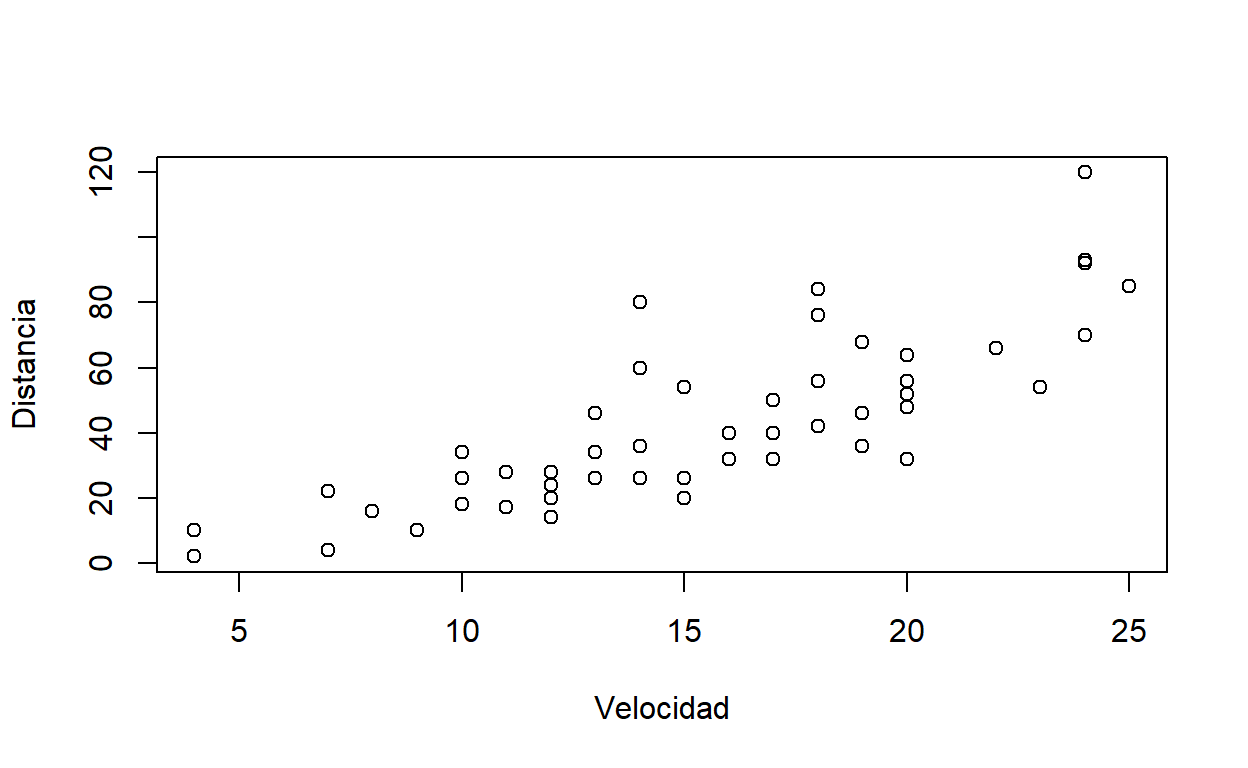
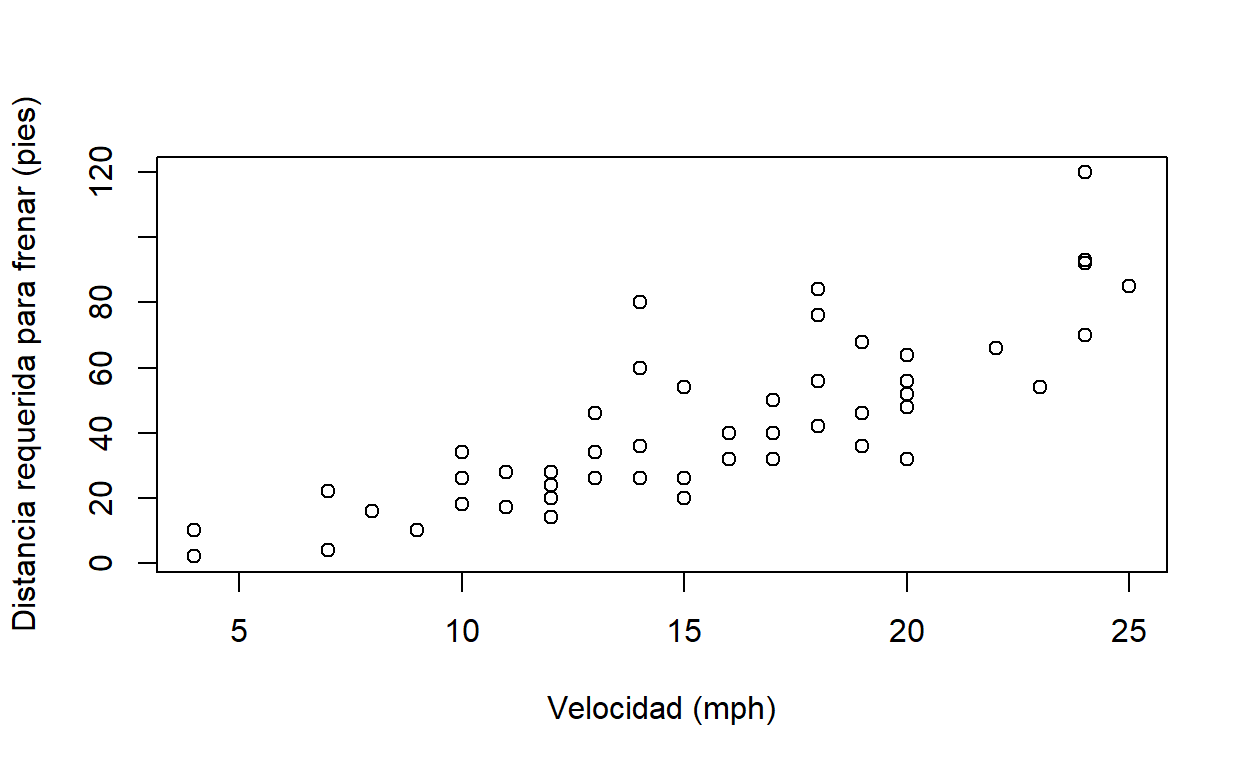
Agregar ejercicios

Changed region(s): [[0.0, 0.125, 0.0312, 0.8438], [0.4375, 0.9062, 0.625, 0.9375]]

diff --git a/docs/01-r-introduccion.html b/docs/01-r-introduccion.html
@@ -2095,7 +2095,7 @@ code span.wa { color: #5e5e5e; font-style: italic; } /* Warning */
 <li><a href="#funciones">Funciones</a>
 <ul>
 <li><a href="#ejemplos">Ejemplos</a></li>
-<li><a href="#parámetros">Parámetros</a></li>
+<li><a href="#argumentos">Argumentos</a></li>
 <li><a href="#ayuda-sobre-funciones">Ayuda sobre funciones</a></li>
 <li><a href="#bibliotecas-y-paquetes">Bibliotecas y paquetes</a></li>
 </ul></li>
@@ -2146,9 +2146,9 @@ Interfaz de RStudio.
 <h1 id="el-lenguaje-r">El lenguaje R</h1>
 <p>En esta sección, se explican algunos de los aspectos principales de la <a href="https://cran.r-project.org/doc/manuals/r-release/R-lang.html">definición del lenguaje R</a>. Específicamente, el concepto de función y los tipos de datos que maneja R.</p>
 <h2 id="funciones">Funciones</h2>
-<p>R, al igual que otros lenguajes de programación, estructura su funcionalidad en unidades de <a href="https://en.wikipedia.org/wiki/Source_code">código fuente</a> llamados <a href="https://cran.r-project.org/doc/manuals/r-release/R-lang.html#Functions">funciones</a>. Cada función realiza una tarea específica como, por ejemplo, un cálculo matemático. Todas las funciones tienen un nombre y un conjunto de parámetros que especifican los datos de entrada que procesa la función. Los parámetros se escriben entre paréntesis redondos (<code>()</code>) y estos siempre deben incluirse, aún en el caso de que la función no tenga ningún parámetro. Si la función tiene varios parámetros, deben separarse mediante comas (<code>,</code>).</p>
+<p>R, al igual que otros lenguajes de programación, estructura su funcionalidad en unidades de <a href="https://en.wikipedia.org/wiki/Source_code">código fuente</a> llamadas <a href="https://cran.r-project.org/doc/manuals/r-release/R-lang.html#Functions">funciones</a>. Cada función realiza una tarea específica como, por ejemplo, un cálculo matemático y, por lo general, retorna un valor como salida. Todas las funciones tienen un nombre y un conjunto de argumentos que especifican los datos de entrada que procesa la función. Los argumentos se escriben entre paréntesis redondos (<code>()</code>) y estos siempre deben incluirse, aún en el caso de que la función no tenga ningún argumento. Si la función tiene varios argumentos, deben separarse mediante comas (<code>,</code>).</p>
 <h3 id="ejemplos">Ejemplos</h3>
-<p>Por ejemplo, la función <a href="https://www.rdocumentation.org/packages/base/versions/3.6.2/topics/print">print()</a> recibe como parámetro un valor (ej. un texto o un número) para imprimirlo en la pantalla. En el siguiente fragmento de código en R, se utiliza <code>print()</code> para imprimir la hilera <a href="https://en.wikipedia.org/wiki/%22Hello,_World!%22_program">“Hola mundo”</a>. Nótese el uso del símbolo <code>#</code> para comentarios (i.e. texto que no es código ejecutable).</p>
+<p>La función <a href="https://www.rdocumentation.org/packages/base/versions/3.6.2/topics/print">print()</a> recibe como argumento un valor (ej. un texto o un número) para imprimirlo en la pantalla. En el siguiente fragmento de código en R, se utiliza <code>print()</code> para imprimir la hilera <a href="https://en.wikipedia.org/wiki/%22Hello,_World!%22_program">“Hola mundo”</a>. Nótese el uso del símbolo <code>#</code> para comentarios (i.e. texto que no es código ejecutable).</p>
 <div class="layout-chunk" data-layout="l-body">
 <div class="sourceCode">
 <pre class="sourceCode r"><code class="sourceCode r"><span class='co'># Impresión de una hilera de carácteres</span>
@@ -2157,7 +2157,7 @@ Interfaz de RStudio.
 </div>
 <pre><code>[1] &quot;Hola mundo&quot;</code></pre>
 </div>
-<p>En otro ejemplo, la función <a href="https://www.rdocumentation.org/packages/base/versions/3.6.2/topics/mean">mean()</a> retorna la media aritmética del parámetro de entrada. En el siguiente ejemplo, se calcula la media de los números de un vector creado a su vez con la función <a href="https://www.rdocumentation.org/packages/base/versions/3.6.2/topics/c">c()</a>.</p>
+<p>En otro ejemplo, la función <a href="https://www.rdocumentation.org/packages/base/versions/3.6.2/topics/mean">mean()</a> retorna la media aritmética del argumento de entrada. En el siguiente ejemplo, se calcula la media de los números de un vector creado a su vez con la función <a href="https://www.rdocumentation.org/packages/base/versions/3.6.2/topics/c">c()</a>.</p>
 <div class="layout-chunk" data-layout="l-body">
 <div class="sourceCode">
 <pre class="sourceCode r"><code class="sourceCode r"><span class='co'># Media aritmética</span>
@@ -2175,8 +2175,8 @@ Interfaz de RStudio.
 </div>
 <pre><code>[1] &quot;C:/Users/mfvargas/curso-r-simocute/curso-r-simocute.github.io&quot;</code></pre>
 </div>
-<p>La función <code>setwd()</code> (<em>set working directory</em>) establece la ruta del directorio de trabajo de la sesión actual de R. Como parámetro, recibe una hilera de texto con la ruta.</p>
-<p><strong>Note las barras utilizadas para separar los subdirectorios: /</strong></p>
+<p>La función <code>setwd()</code> (<em>set working directory</em>) establece la ruta del directorio de trabajo de la sesión actual de R. Como argumento, recibe una hilera de texto con la ruta.</p>
+<p><strong>Note las barras utilizadas para separar los subdirectorios: / (no \)</strong></p>
 <div class="layout-chunk" data-layout="l-body">
 <div class="sourceCode">
 <pre class="sourceCode r"><code class="sourceCode r"><span class='co'># Definición del directorio de trabajo (la ruta debe existir)</span>
@@ -2187,20 +2187,28 @@ Interfaz de RStudio.
 </code></pre>
 </div>
 </div>
-<h3 id="parámetros">Parámetros</h3>
-<p>Los parámetros de las funciones tienen nombres que pueden especificarse, en caso de ser necesario. En el siguiente ejemplo, se utilizan los nombres de los parámetros <code>x</code>, <code>xlab</code> y <code>ylab</code> de la función <a href="https://www.rdocumentation.org/packages/graphics/versions/3.6.2/topics/plot">plot()</a> para especificar la fuente de datos y las etiquetas de los ejes x e y de un gráfico.</p>
+<p><strong> Ejercicio 01:<br />
+a. Obtenga la ruta de su directorio de trabajo con la función <code>getwd()</code>.<br />
+b. Si lo desea, cambie la ruta de su directorio de trabajo con la función <code>setwd()</code>. Verifique el cambio con <code>getwd()</code>.<br />
+</strong></p>
+<h3 id="argumentos">Argumentos</h3>
+<p>Los argumentos de las funciones tienen nombres que pueden especificarse, en caso de ser necesario. En el siguiente ejemplo, se utilizan los nombres de los argumentos <code>x</code>, <code>xlab</code> y <code>ylab</code> de la función <a href="https://www.rdocumentation.org/packages/graphics/versions/3.6.2/topics/plot">plot()</a> para especificar la fuente de datos y las etiquetas de los ejes x e y de un gráfico.</p>
 <div class="layout-chunk" data-layout="l-body">
 <div class="sourceCode">
 <pre class="sourceCode r"><code class="sourceCode r"><span class='co'># Gráfico con etiquetas en los ejes x e y del conjunto de datos "cars"</span>
 <span class='fu'><a href='https://rdrr.io/r/graphics/plot.default.html'>plot</a></span><span class='op'>(</span>
   x<span class='op'>=</span><span class='va'>cars</span>, 
-  xlab<span class='op'>=</span><span class='st'>"Velocidad"</span>, 
-  ylab<span class='op'>=</span><span class='st'>"Distancia"</span>
+  xlab<span class='op'>=</span><span class='st'>"Velocidad (mph)"</span>, 
+  ylab<span class='op'>=</span><span class='st'>"Distancia requerida para frenar (pies)"</span>
 <span class='op'>)</span>
 </code></pre>
 </div>
 <p><img src="01-r-introduccion_files/figure-html5/unnamed-chunk-5-1.png" width="624" /></p>
 </div>
+<p><strong> Ejercicio 02: estudie la documentación de la función <code>plot()</code> y agregue al gráfico anterior:<br />
+a. Un título.<br />
+b. Un subtítulo.<br />
+</strong></p>
 <h3 id="ayuda-sobre-funciones">Ayuda sobre funciones</h3>
 <p>Para obtener ayuda de una función desde la línea de comandos de R, puede utilizarse un signo de pregunta (<code>?</code>) seguido del nombre de la función o bien la función <a href="https://www.rdocumentation.org/packages/utils/versions/3.6.2/topics/help">help()</a>. Por ejemplo:</p>
 <div class="layout-chunk" data-layout="l-body">
@@ -2250,7 +2258,7 @@ mean&gt; c(xm, mean(x, trim = 0.10))
 <p>Algunos paquetes están contenidos en la distribución base de R y otros deben instalarse de manera separada con la función <a href="https://www.rdocumentation.org/packages/utils/versions/3.6.2/topics/install.packages">install.packages()</a>.</p>
 <div class="layout-chunk" data-layout="l-body">
 <div class="sourceCode">
-<pre class="sourceCode r"><code class="sourceCode r"><span class='co'># Instalación del paquete dplyr</span>
+<pre class="sourceCode r"><code class="sourceCode r"><span class='co'># Instalación del paquete dplyr (note las comillas)</span>
 <span class='fu'><a href='https://rdrr.io/r/utils/install.packages.html'>install.packages</a></span><span class='op'>(</span><span class='st'>"dplyr"</span><span class='op'>)</span>
 </code></pre>
 </div>
@@ -2490,7 +2498,7 @@ mean&gt; c(xm, mean(x, trim = 0.10))
 </div>
 <pre><code>[1] -0.5  0.5  1.5  2.5  3.5</code></pre>
 </div>
-<p>La función <a href="https://www.rdocumentation.org/packages/base/versions/3.6.2/topics/seq">seq()</a> también crea un vector con base en una secuencia y permite especificar parámetros como un valor de incremento y la longitud de la secuencia.</p>
+<p>La función <a href="https://www.rdocumentation.org/packages/base/versions/3.6.2/topics/seq">seq()</a> también crea un vector con base en una secuencia y permite especificar argumentos como un valor de incremento y la longitud de la secuencia.</p>
 <div class="layout-chunk" data-layout="l-body">
 <div class="sourceCode">
 <pre class="sourceCode r"><code class="sourceCode r"><span class='co'># Definición de un vector de números con la secuencia de 1 a 10</span>
@@ -2844,7 +2852,7 @@ Mario   25    1000</code></pre>
 </div>
 <h5 id="operaciones-2">Operaciones</h5>
 <p>R proporciona una gran variedad de funciones para manejar data frames. Las siguientes son algunas de las más utilizadas.</p>
-<p>La función <a href="https://www.rdocumentation.org/packages/utils/versions/3.6.2/topics/read.table">read.table()</a> lee los datos contenidos en un archivo de texto y los retorna en un data frame. <code>read.csv()</code> es una función derivada, con valores por defecto orientados a los archivos de valores separados por comas (CSV, <em>Comma Separated Values</em>). Como parámetro principal, <code>read.csv()</code> recibe la ruta del archivo CSV, el cual puede encontrarse en un disco local, en la Web o en otra ubicación.</p>
+<p>La función <a href="https://www.rdocumentation.org/packages/utils/versions/3.6.2/topics/read.table">read.table()</a> lee los datos contenidos en un archivo de texto y los retorna en un data frame. <code>read.csv()</code> es una función derivada, con valores por defecto orientados a los archivos de valores separados por comas (CSV, <em>Comma Separated Values</em>). Como argumento principal, <code>read.csv()</code> recibe la ruta del archivo CSV, el cual puede encontrarse en un disco local, en la Web o en otra ubicación.</p>
 <div class="layout-chunk" data-layout="l-body">
 <div class="sourceCode">
 <pre class="sourceCode r"><code class="sourceCode r"><span class='co'># Lectura de archivo CSV ubicado en la Web</span>
@@ -2863,7 +2871,8 @@ Mario   25    1000</code></pre>
 7  SLV       2030       62340    1121       65491
 8  DOM       3355      214704   36544      254503</code></pre>
 </div>
-<p><strong>Ejercicio</strong>: descargue el archivo del ejemplo anterior (<a href="https://raw.githubusercontent.com/curso-r-simocute/datos/main/covid/covid-card.csv" class="uri">https://raw.githubusercontent.com/curso-r-simocute/datos/main/covid/covid-card.csv</a>) en su computadora y cárguelo en otro data frame mediante <code>read.csv()</code>.</p>
+<p><strong> Ejercicio 03:<br />
+a. Descargue el archivo del ejemplo anterior (<a href="https://raw.githubusercontent.com/curso-r-simocute/datos/main/covid/covid-card.csv" class="uri">https://raw.githubusercontent.com/curso-r-simocute/datos/main/covid/covid-card.csv</a>) en su computadora y cárguelo en otro data frame mediante <code>read.csv()</code>. </strong></p>
 <p>La función <a href="https://www.rdocumentation.org/packages/utils/versions/3.6.2/topics/str">str()</a> despliega la estructura de un objeto R.</p>
 <div class="layout-chunk" data-layout="l-body">
 <div class="sourceCode">
@@ -2909,7 +2918,7 @@ Mario   25    1000</code></pre>
 <span class='va'>fecha_actual</span>
 </code></pre>
 </div>
-<pre><code>[1] &quot;2021-04-11&quot;</code></pre>
+<pre><code>[1] &quot;2021-04-12&quot;</code></pre>
 <div class="sourceCode">
 <pre class="sourceCode r"><code class="sourceCode r">
 <span class='co'># Tipo de datos</span>
